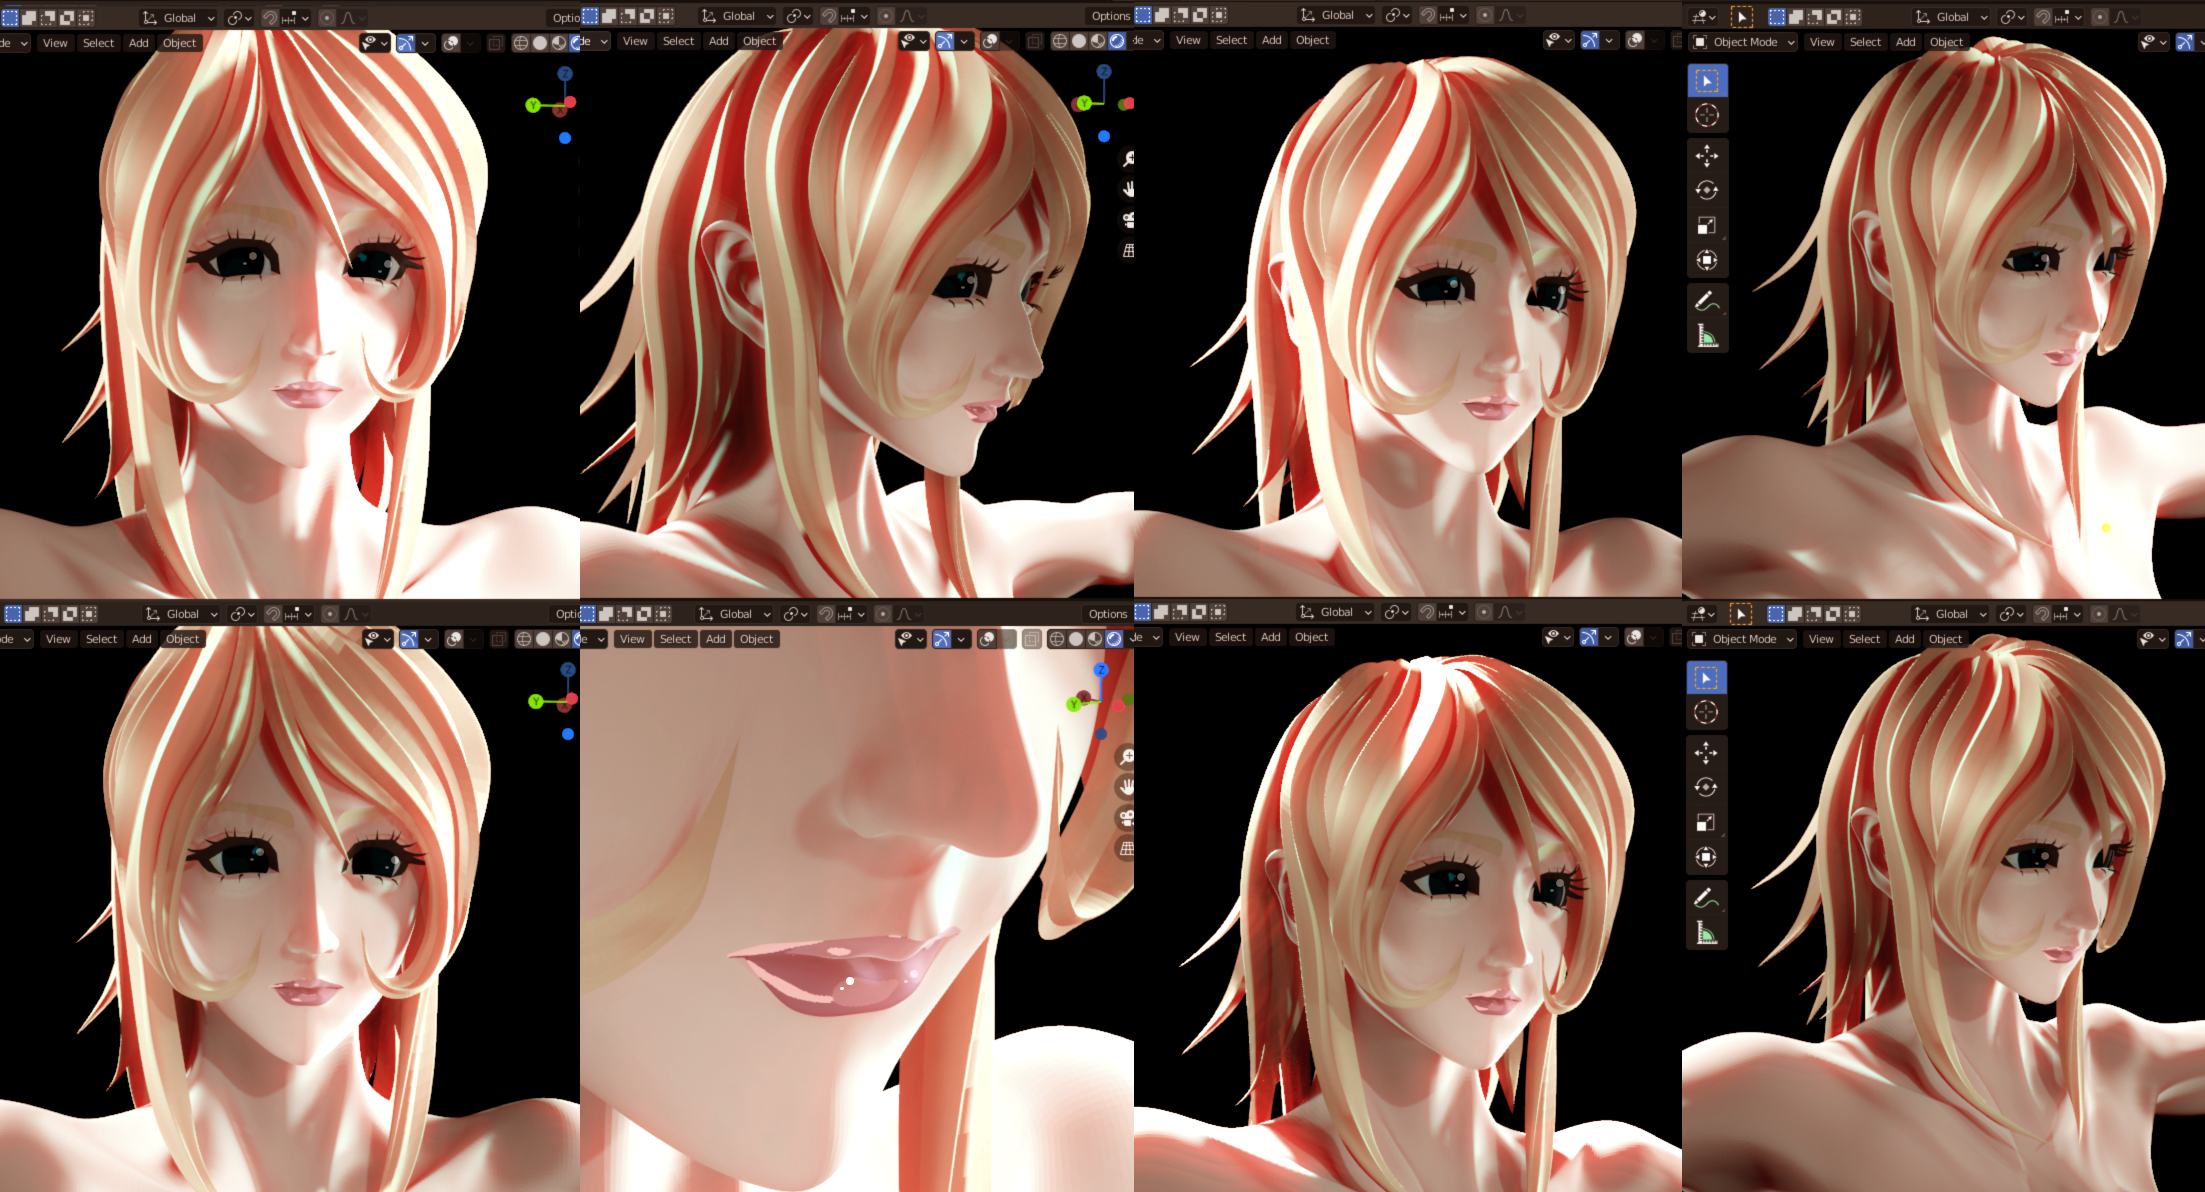
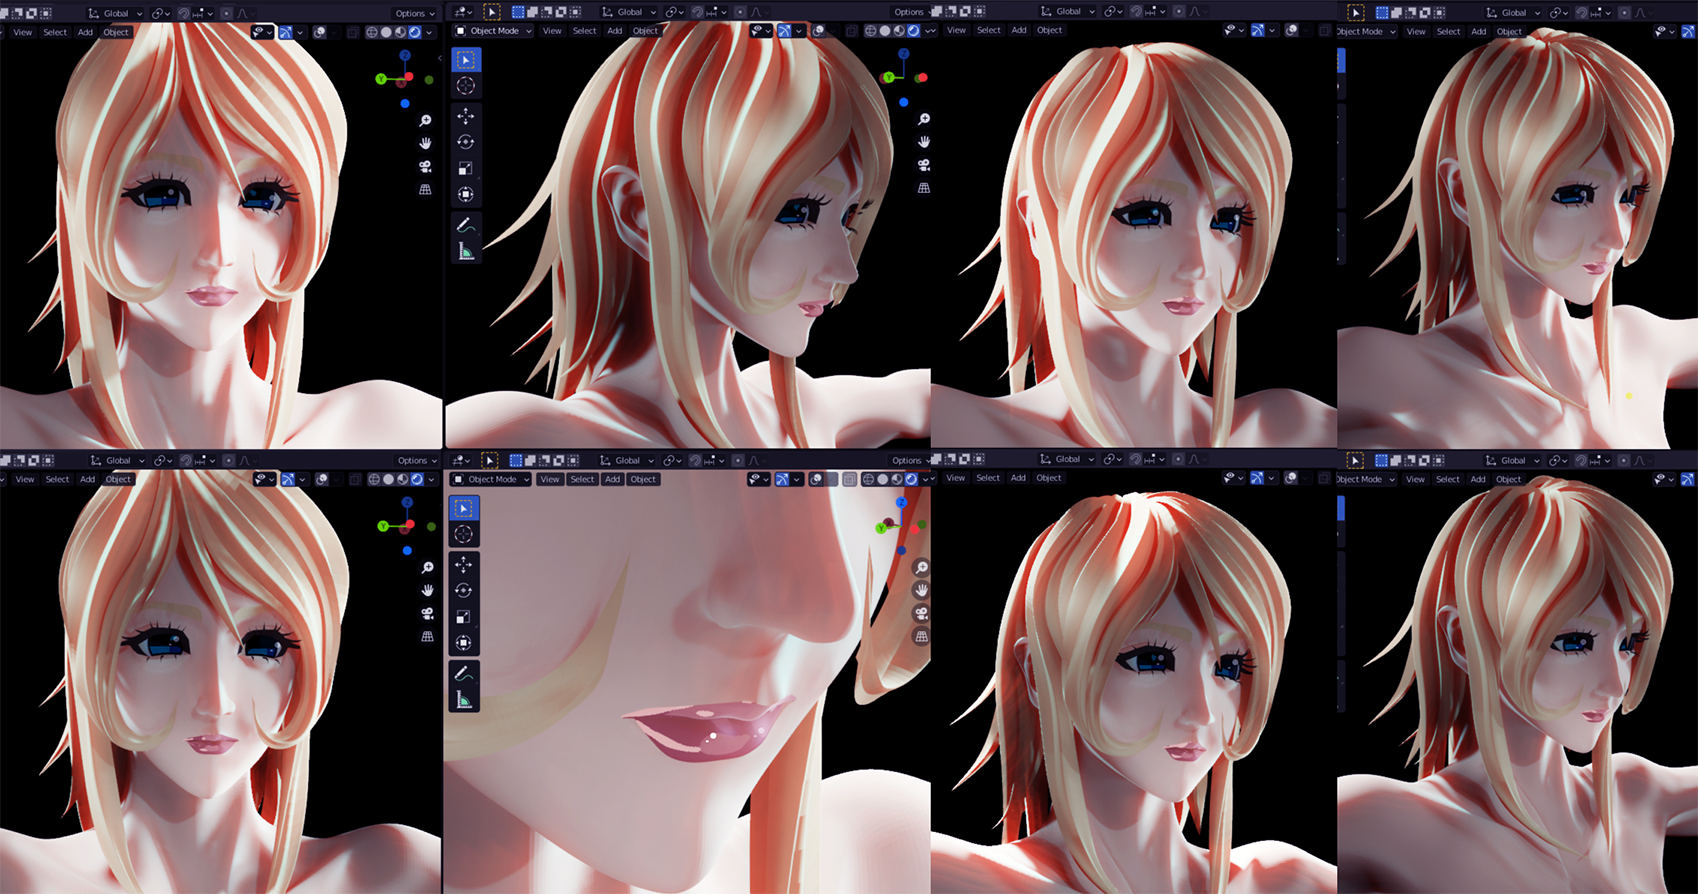
some rendered images of Yuki Mori and Gundam updated.

diff --git a/README.md b/README.md
@@ -9,7 +9,7 @@
 
 |   |   |
 |---|---|
-|<img src="fusion360/Gundam.3.PNG" width="512">|<img src="fusion360/Gundam.4.PNG" width="512">|
+|<img src="fusion360/Gundam.3.PNG" width="512">|<img src="fusion360/Gundam.2.PNG" width="512">|
 |<img src="fusion360/Gundam.5.PNG" width="512">|<img src="fusion360/Gundam.6.PNG" width="512">|
 
 ----
@@ -44,6 +44,8 @@
 |<font size=6>Renderer: Eevee</font><font size=4> (Preview Renderer)</font>|
 |<img src="blender/Yuki_Mori_Hands.PNG" width="1024">|
 |<img src="blender/Yuki_Mori_Foots.PNG" width="1024">|
+|<img src="blender/Blank.PNG" width="64">|
+|<font size=6>Renderer: Eevee</font><font size=4> (Preview Renderer)</font>|
 |<img src="blender/Yuki_Mori_face.PNG" width="1024">|
 ----
 

diff --git a/blender/README.md b/blender/README.md
@@ -11,10 +11,11 @@
 |---|
 |<font size=6>Renderer: Eevee</font><font size=4> (Preview Renderer)</font>|
 |<img src="References.PNG" width="1024">|
-|<img src="Yuki_Mori_face.PNG" width="1024">|
 |<img src="Blank.PNG" width="64">|
 |<img src="Yuki_Mori_Hands.PNG" width="1024">|
 |<img src="Yuki_Mori_Foots.PNG" width="1024">|
+|<img src="Blank.PNG" width="64">|
+|<img src="Yuki_Mori_face.PNG" width="1024">|
 ----
 
 ----
